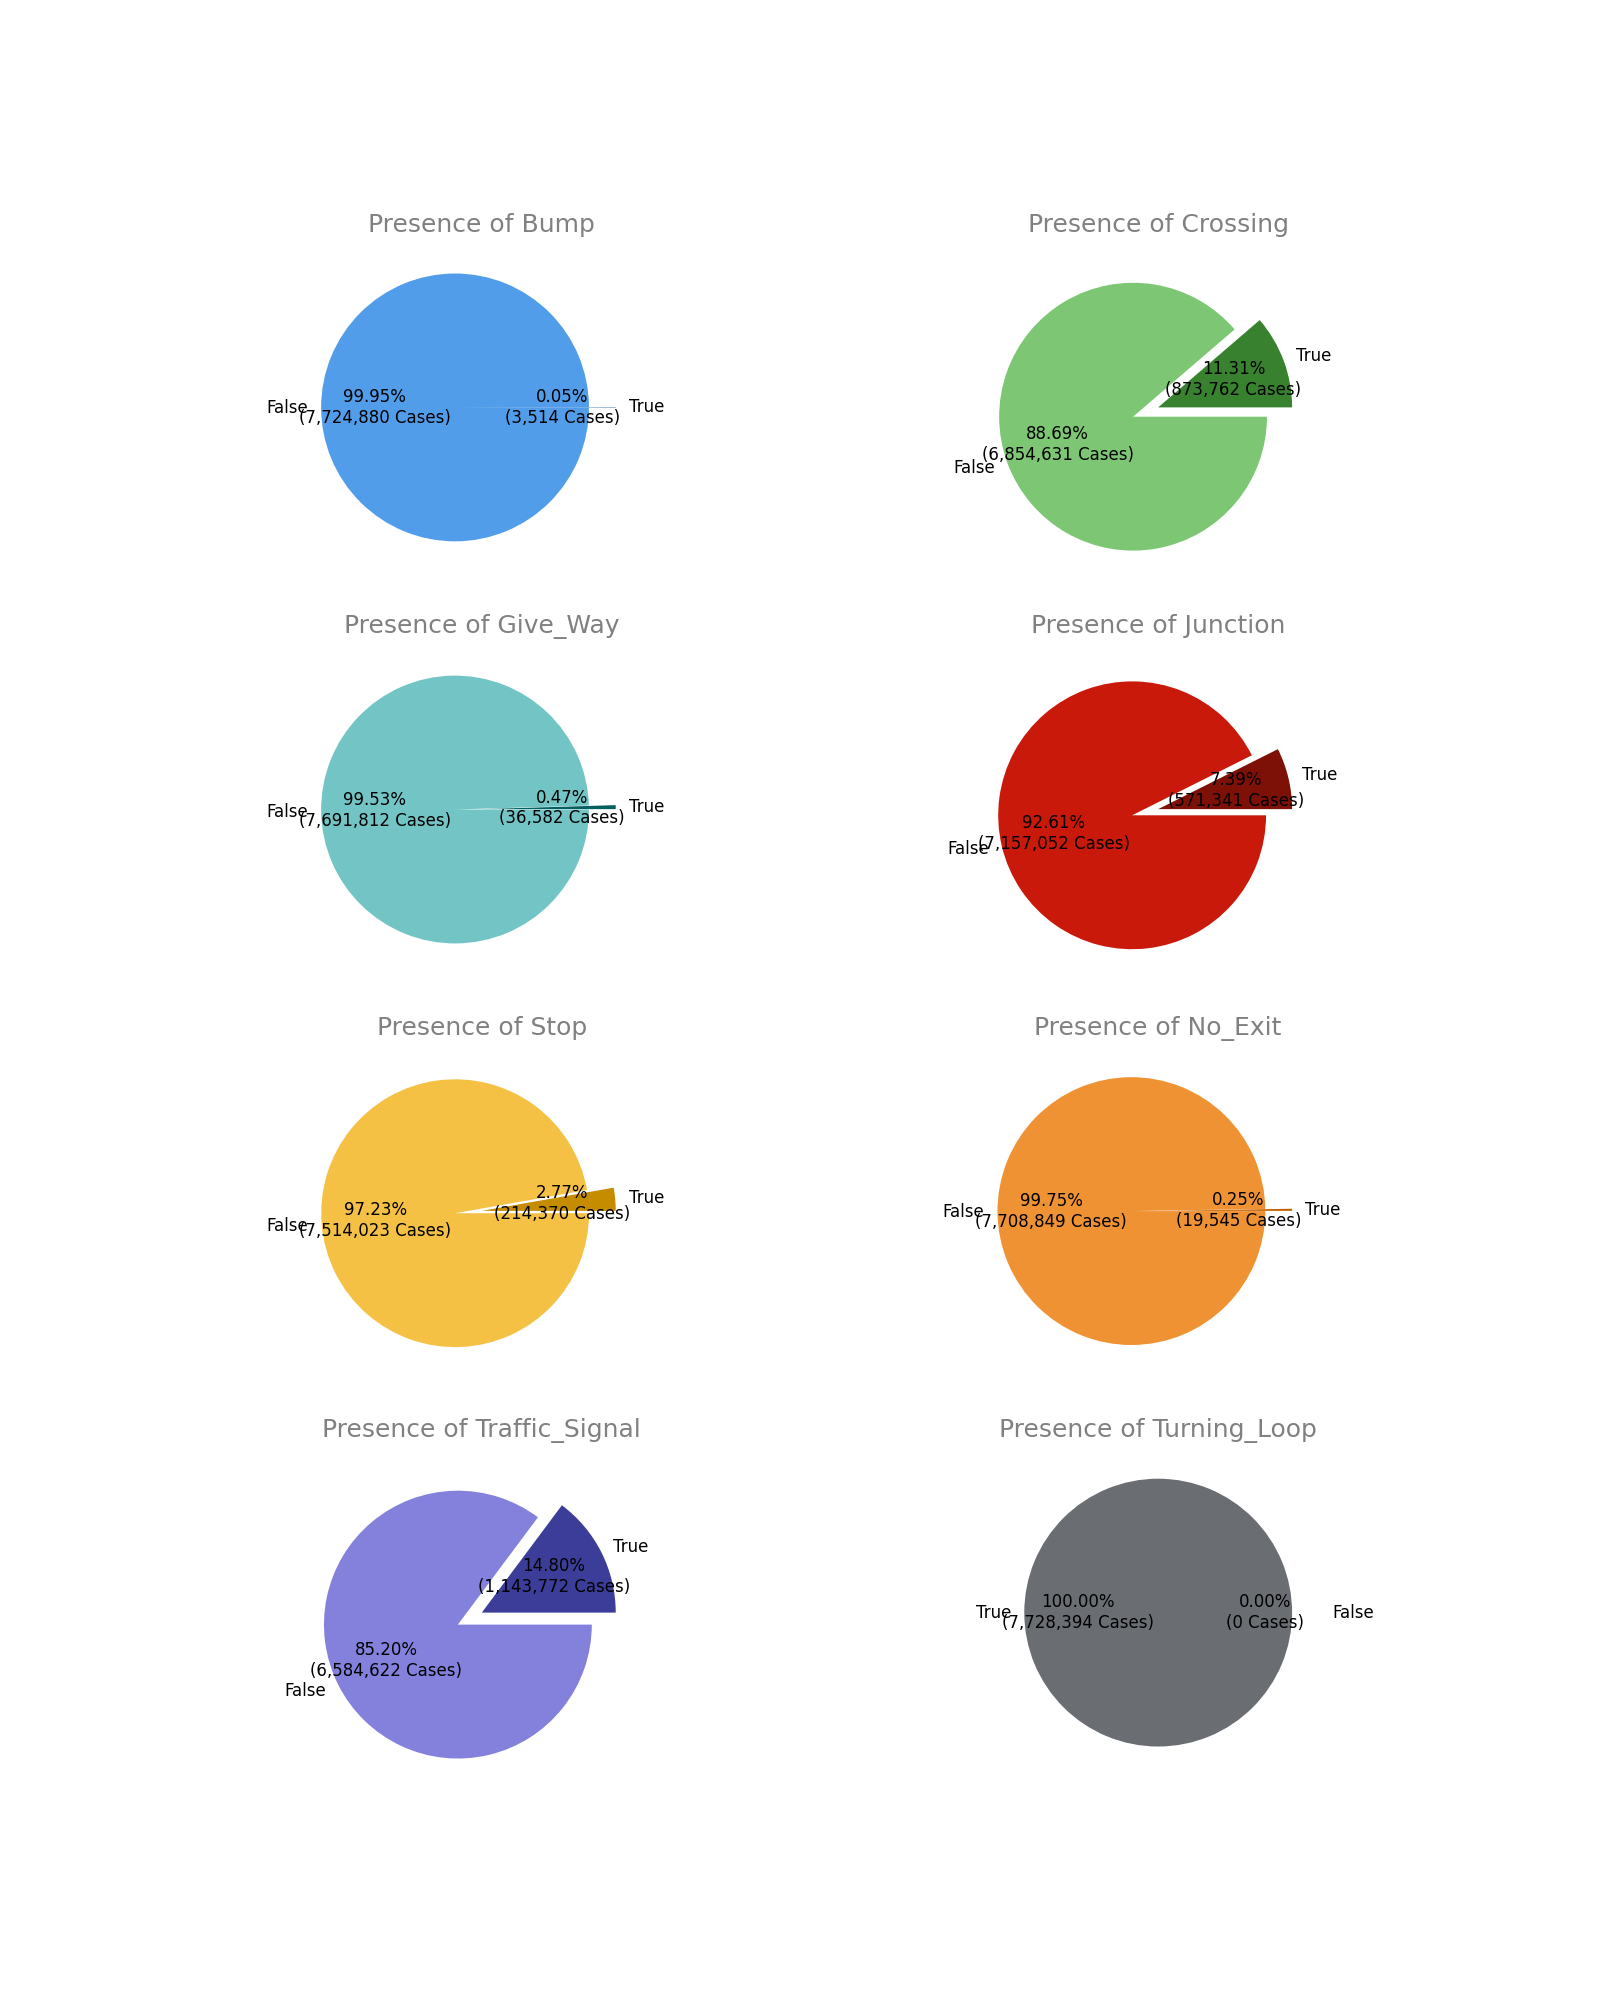
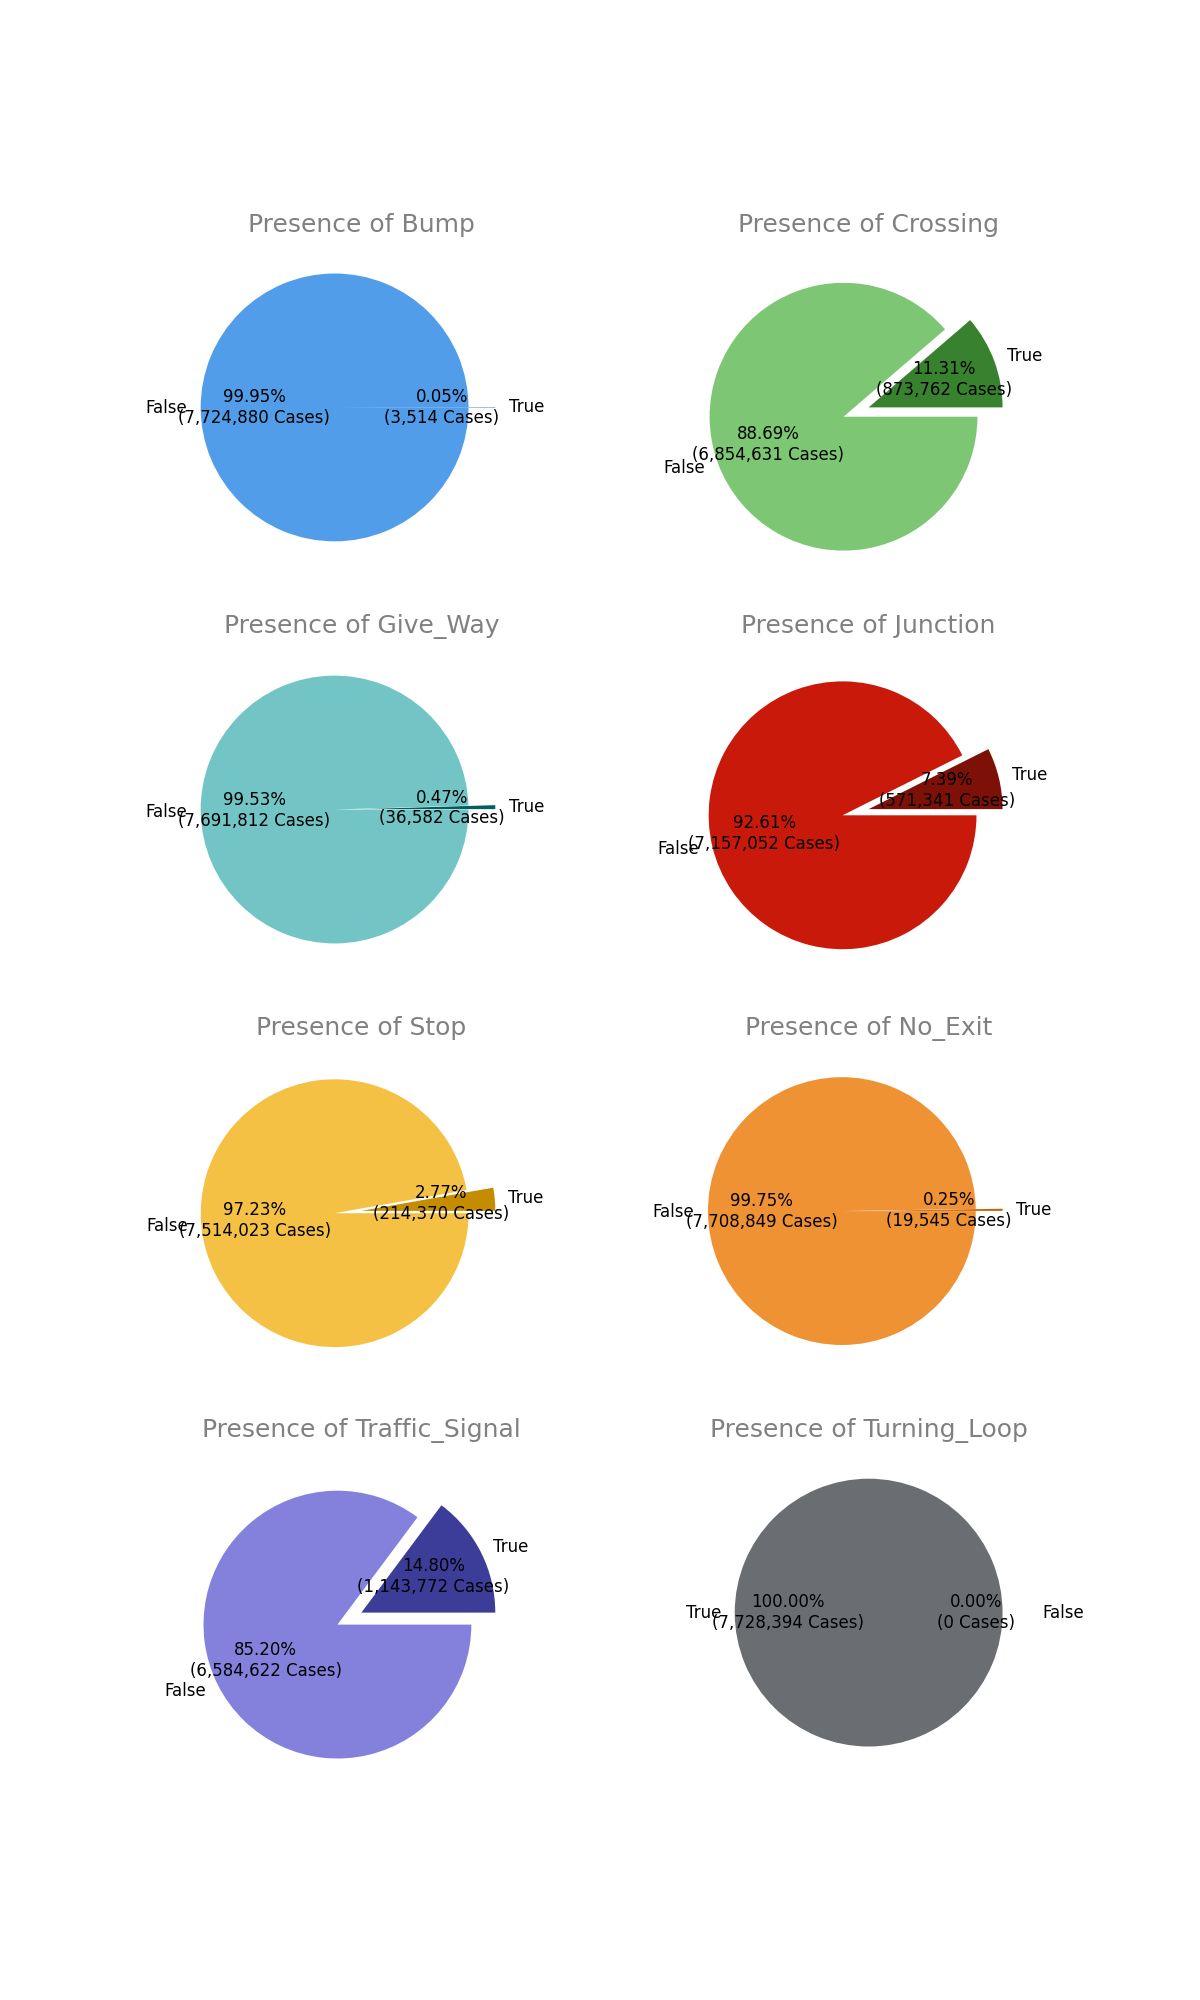
update Initial.py

diff --git a/Initial.py b/Initial.py
@@ -46,33 +46,34 @@ print("The Dataset Contains, Rows: {:,d} & Columns: {}".format(df.count(), len(d
 # Tarih saat sütunlarını dönüştür
 df = df.withColumn("Start_Time", to_timestamp(col("Start_Time")))
 df = df.withColumn("End_Time", to_timestamp(col("End_Time")))
+
+
+########################################################################################################################
+# City Analysis
 '''
-# Şehirler ve kaza sayıları
+# Cities and number of accidents
 city_df = df.groupBy("City").agg(count("*").alias("Cases")).orderBy(col("Cases").desc())
 
-# En yüksek kaza sayısı ve hesaplamaları
+# Highest number of accidents and calculations
 highest_cases = city_df.select("Cases").first()[0]
 print(round(highest_cases / 5))
 print(round(highest_cases / (5 * 365)))
 
-# Top 10 şehir
+# Top 10 cities
 top_10_cities = city_df.limit(10)
 
-# Sonuçları görüntüle
+# show reslults
 top_10_cities.show()
 
 top_10_citiesPD = top_10_cities.toPandas()
 city_dfPd = city_df.toPandas()
-'''
-########################################################################################################################
-# City Analysis
-''' 
+
 fig, ax = plt.subplots(figsize=(12, 10), dpi=150)
 
 cmap = cm.get_cmap('rainbow', 10)
 clrs = [matplotlib.colors.rgb2hex(cmap(i)) for i in range(cmap.N)]
 
-ax = sns.barplot(y=top_10_citiesPD['Cases'], x=top_10_citiesPD['City'], palette='rainbow')
+ax = sns.barplot(y=top_10_citiesPD['Cases'], x=top_10_citiesPD['City'], palette='plasma')
 
 total = sum(city_dfPd['Cases'])
 for i in ax.patches:
@@ -101,15 +102,15 @@ top_side.set_visible(False)
 ax.set_axisbelow(True)
 ax.grid(color='#b2d6c7', linewidth=1, axis='y', alpha=.3)
 plt.show()
-
 '''
+
 ########################################################################################################################
 # Hour Analysis
-''' 
-# Start_Time sütunundaki saat bilgilerini çıkarma
+'''
+# Extract time information from the Start_Time column
 df_hours = df.withColumn("Hours", hour(col("Start_Time")))
 
-# Saat bazında kaza sayısını hesaplama
+# Calculating the number of accidents per hour
 hour_df = df_hours.groupBy("Hours").agg(count("*").alias("Cases")).orderBy("Hours")
 hour_df_pd = hour_df.toPandas()
 
@@ -121,12 +122,12 @@ for x in hour_df_pd['Cases']:
         if (x == max(list(hour_df_pd['Cases'])[:12])):
             clrs.append('red')
         else:
-            clrs.append('#17c4e3')
+            clrs.append('#c3b632')
     else:
         if (x == max(list(hour_df_pd['Cases'])[12:])):
             clrs.append('red')
         else:
-            clrs.append('#1717e3')
+            clrs.append('#60154a')
 ax = sns.barplot(y=hour_df_pd['Cases'], x=hour_df_pd['Hours'], palette=clrs)
 ax1 = ax.twinx()
 
@@ -156,16 +157,16 @@ ax.grid(color='#b2d6c7', linewidth=1, alpha=.3)
 ax.tick_params(axis='both', which='major', labelsize=12)
 
 MA = mpatches.Patch(color='red', label='Hours with maximum\nnumber of accidents')
-MO = mpatches.Patch(color='#17c4e3', label='A.M.')
-NI = mpatches.Patch(color='#1717e3', label='P.M.')
+MO = mpatches.Patch(color='#c3b632', label='A.M.')
+NI = mpatches.Patch(color='#60154a', label='P.M.')
 
 ax.legend(handles=[MA, MO, NI], prop={'size': 10.5}, loc='upper left', borderpad=1, edgecolor='white');
 
 plt.show()
 '''
 ########################################################################################################################
-''' 
-# sparksız yapılan usa map severity grafiği
+'''  
+# usa map severity graph made without spark
 
 df = pd.read_csv('./US_Accidents_March23.csv')
 
@@ -173,48 +174,46 @@ print('The Dataset Contains, Rows: {:,d} & Columns: {}'.format(df.shape[0], df.s
 
 states = gpd.read_file('./us-states-map')
 df.Start_Time = pd.to_datetime(df.Start_Time, format='mixed')
-
-
 df.End_Time = pd.to_datetime(df.End_Time, format='mixed')
 
 geometry = [Point(xy) for xy in zip(df['Start_Lng'], df['Start_Lat'])]
 geo_df = gpd.GeoDataFrame(df, geometry=geometry)
 
-fig, ax = plt.subplots(figsize=(15,15))
-ax.set_xlim([-125,-65])
-ax.set_ylim([22,55])
-states.boundary.plot(ax=ax, color='black');
+fig, ((ax1, ax2), (ax3, ax4)) = plt.subplots(nrows=2, ncols=2, figsize=(15, 10), dpi=150)
+ax = [ax1,ax2,ax3,ax4]
+#fig, ax = plt.subplots(figsize=
 
-geo_df[geo_df['Severity'] == 1].plot(ax=ax, markersize=50, color='#5cff4a', marker='o', label='Severity 1');
-geo_df[geo_df['Severity'] == 3].plot(ax=ax, markersize=10, color='#ff1c1c', marker='x', label='Severity 3');
-geo_df[geo_df['Severity'] == 4].plot(ax=ax, markersize=5, color='#6459ff', marker='+', label='Severity 4');
-geo_df[geo_df['Severity'] == 2].plot(ax=ax, markersize=1, color='#ffb340', marker='.', label='Severity 2');
+index = 0
+severity_levels = ['Severity 1','Severity 2','Severity 3','Severity 4']
+severity_colors = ['#00FF00','#0640FF','#5705FF','#FF001E']
 
-for i in ['bottom', 'top', 'left', 'right']:
-    side = ax.spines[i]
-    side.set_visible(False)
+for i in ax:
 
-plt.tick_params(top=False, bottom=False, left=False, right=False,
-                labelleft=False, labelbottom=False)
+    i.set_xlim([-125,-65])
+    i.set_ylim([22,55])
 
-plt.title('\nDifferent level of Severity visualization in US map', size=20, color='grey');
+    states.boundary.plot(ax=i, color='black')
 
-One = mpatches.Patch(color='#5cff4a', label='Severity 1')
-Two = mpatches.Patch(color='#ffb340', label='Severity 2')
-Three = mpatches.Patch(color='#ff1c1c', label='Severity 3')
-Four = mpatches.Patch(color='#6459ff', label='Severity 4')
+    geo_df[geo_df['Severity'] == (index+1)].plot(ax=i, markersize=1, color=severity_colors[index], marker='.', label=severity_levels[index])
 
-ax.legend(handles=[One, Two, Three, Four], prop={'size': 15}, loc='lower right', borderpad=1,
-          labelcolor=['#5cff4a', '#ffb340', '#ff1c1c', '#6459ff'], edgecolor='white');
+    for x in ['bottom', 'top', 'left', 'right']:
+        side = i.spines[x]
+        side.set_visible(False)
 
-plt.show()
+    title = '\n{} Visualization in US Map'.format(severity_levels[index])
+
+    i.set_title(title, fontsize=18, color='grey')
+
+    index += 1
+
+
 fig.show()
-
 '''
+
 ########################################################################################################################
 
+# State Analysis
 '''
-
 # create a dictionary using US State code and their corresponding Name
 us_states = {'AK': 'Alaska',
              'AL': 'Alabama',
@@ -274,36 +273,33 @@ us_states = {'AK': 'Alaska',
              'WY': 'Wyoming'
              }
 
-# Eyaletler ve karşılık gelen kaza sayılarından oluşan bir DataFrame oluşturma
+# Create a DataFrame with states and the corresponding number of accidents
 state_df = df.groupBy("State").agg(count("*").alias("Cases")) \
     .orderBy(desc("Cases")) \
     .select(col("State"), col("Cases")) \
     .toPandas()
 
 
-# Eyalet kodlarını isimlerine dönüştüren bir fonksiyon tanımlama
+# Define a function that converts state codes to their names
 def convert(state_code):
     return us_states.get(state_code, state_code)
 
 
-# Eyalet kodlarını isimlerine dönüştürme
+# Convert state codes to their names
 state_df['State'] = state_df['State'].apply(convert)
 
-# Top 10 eyalet ismini alın
+# Get the top 10 state names
 top_ten_states_name = state_df.head(10)
 
 print(top_ten_states_name)
-'''
-########################################################################################################################
-'''
+
 fig, ax = plt.subplots(figsize=(12, 10), dpi=150)
 
 cmap = cm.get_cmap('winter', 10)
 clrs = [matplotlib.colors.rgb2hex(cmap(i)) for i in range(cmap.N)]
 
-ax = sns.barplot(y=state_df['Cases'].head(10), x=state_df['State'].head(10), palette='winter')
+ax = sns.barplot(y=state_df['Cases'].head(10), x=state_df['State'].head(10), palette='viridis')
 ax1 = ax.twinx()
-sns.lineplot(data=state_df[:10], marker='o', x='State', y='Cases', color='white', alpha=.8)
 
 total = df.count()
 for i in ax.patches:
@@ -338,14 +334,16 @@ ax.tick_params(axis='x', which='major', labelsize=10.6, rotation=10)
 plt.show()
 '''
 ########################################################################################################################
-'''
+
+# Severity Analysis
+''' 
 severity_df = df.groupBy("Severity").agg(count("*").alias("Cases")).orderBy(col("Cases").desc())
-# Pandas'a dönüşüm
+# Transformation to Pandas
 severity_df_pd = severity_df.toPandas()
 
 fig, ax = plt.subplots(figsize=(12, 10), dpi=150)
 
-# Toplam vakaların yüzdesini hesaplayalım
+# Calculate the percentage of total cases
 total_cases = severity_df_pd['Cases'].sum()
 severity_df_pd['Percentage'] = (severity_df_pd['Cases'] / total_cases) * 100
 clrs = ['#b4e6ee', '#14a3ee', '#fdf4b8', '#ff4f4e']
@@ -380,7 +378,8 @@ fig.show()
 ########################################################################################################################
 
 # Road Condition Analysis
-fig, ((ax1, ax2), (ax3, ax4), (ax5, ax6), (ax7, ax8)) = plt.subplots(nrows=4, ncols=2, figsize=(16, 20))
+'''
+fig, ((ax1, ax2), (ax3, ax4), (ax5, ax6), (ax7, ax8)) = plt.subplots(nrows=4, ncols=2, figsize=(12, 20))
 
 road_conditions = ['Bump', 'Crossing', 'Give_Way', 'Junction', 'Stop', 'No_Exit', 'Traffic_Signal', 'Turning_Loop']
 colors = [('#004B95', '#519DE9'), ('#38812F', '#7CC674'), ('#005F60', '#73C5C5'), ('#7D1007', '#C9190B'),
@@ -414,6 +413,6 @@ for i in [ax1, ax2, ax3, ax4, ax5, ax6, ax7, ax8]:
 
     index += 1
 fig.show()
-
+'''
 # Spark Session'ı kapat
 spark.stop()
